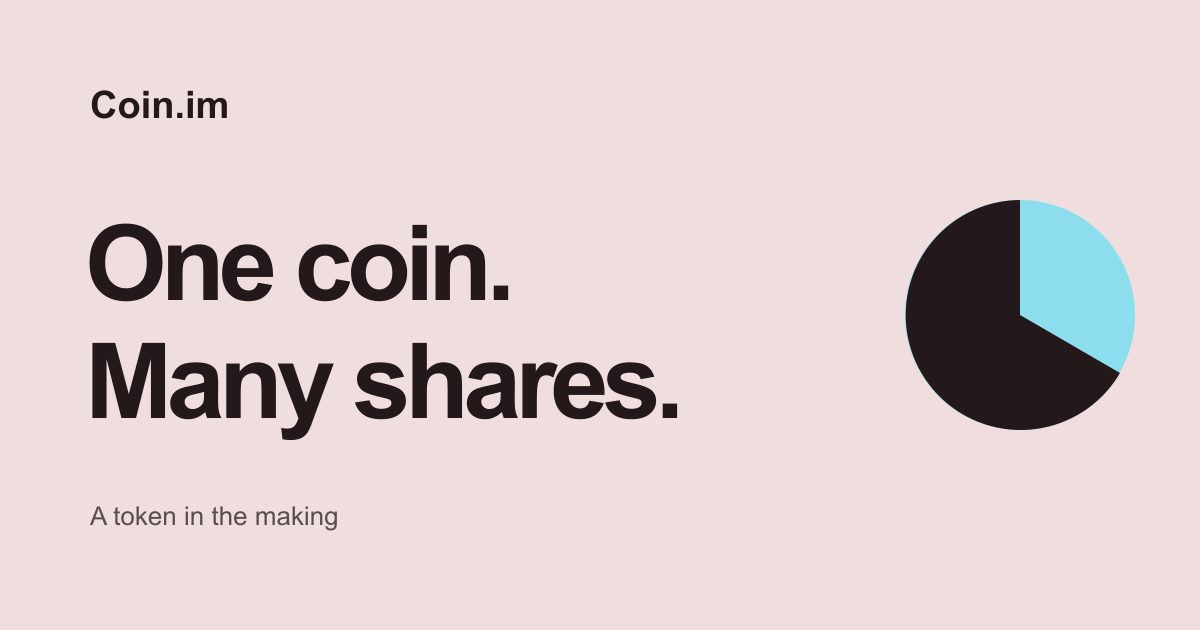
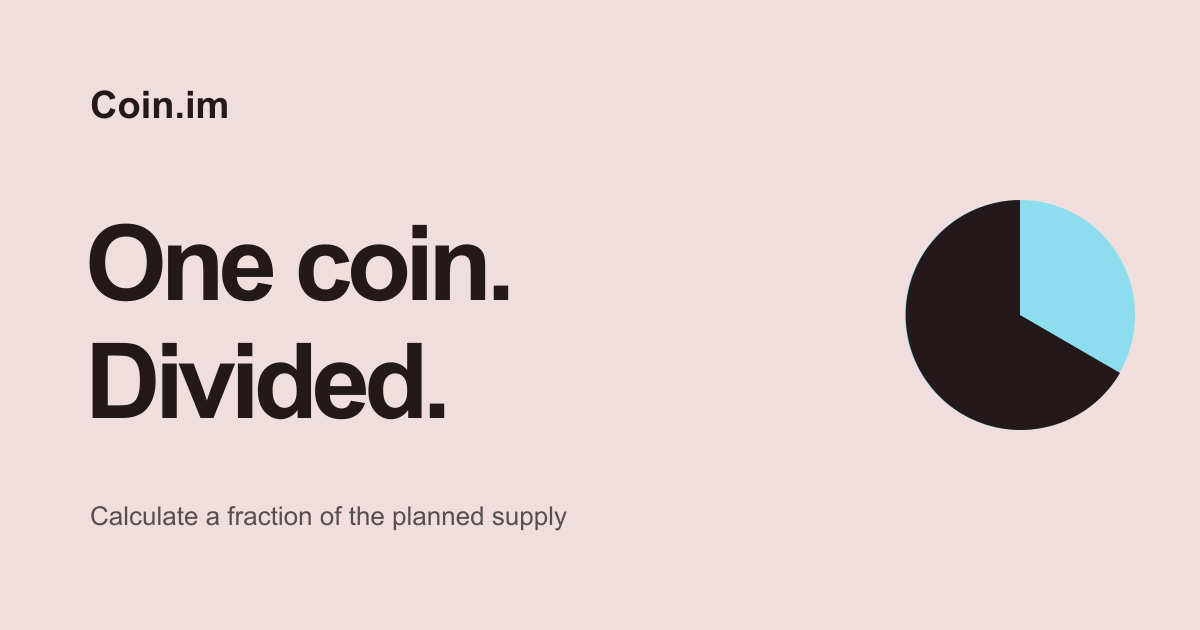
Tighten Coin.im copy and opening screen

Changed region(s): [[0.0617, 0.5429, 0.5858, 0.6937], [0.0617, 0.7841, 0.4933, 0.8444]]

diff --git a/app/coin-home.css b/app/coin-home.css
@@ -1,1 +1,1 @@
-.coin-page{--ink:#23191a;--pink:#f0dede;--blue:#8cdded;--line:#dcd6d1;background:var(--pink);color:var(--ink);font-family:Arial,sans-serif;font-size:18px;line-height:1.5}.coin-page *{box-sizing:border-box}.coin-page a{color:inherit;text-decoration:none}.coin-page button,.coin-page input{font:inherit}.coin-page button{cursor:pointer}.coin-page :focus-visible{outline:3px solid #185aa7;outline-offset:4px}.coin-header{position:relative;z-index:2}.coin-header-inner{max-width:1320px;margin:auto;min-height:86px;padding:15px 32px;display:flex;align-items:center;gap:52px}.coin-brand{display:inline-flex;align-items:center;gap:9px;font-size:26px;font-weight:700;letter-spacing:-.055em;white-space:nowrap}.brand-mark{width:38px;height:38px;flex:none}.coin-header nav{display:flex;gap:32px;align-items:center;font-size:16px;font-weight:600}.header-cta,.hero-cta{display:inline-flex;align-items:center;justify-content:center;gap:32px;background:var(--blue);border-radius:999px;padding:13px 23px;font-size:16px;font-weight:700;min-height:50px}.header-cta{margin-left:auto}.hero{min-height:690px;position:relative;overflow:hidden;display:flex;align-items:center;justify-content:center;text-align:center;padding:50px 24px 125px}.hero-content{position:relative;z-index:1;max-width:1120px}.hero-kicker,.eyebrow{font-size:12px;font-weight:700;letter-spacing:.12em;text-transform:uppercase}.hero-kicker span{display:inline-block;width:8px;height:8px;background:#326d50;border-radius:50%;margin-right:6px}.hero h1{font-size:clamp(72px,10.3vw,148px);line-height:.97;letter-spacing:-.065em;margin:20px 0 24px}.hero-copy{max-width:560px;font-size:20px;line-height:1.45;margin:0 auto 27px}.hero-status{font-size:14px;margin:15px 0 0;color:#645457}.hero-symbol{position:absolute;border-radius:50%;width:180px;height:180px;border:28px solid #dfaa63;transform:rotate(-20deg)}.symbol-left{left:5%;top:31%}.symbol-left span{position:absolute;width:28px;height:110px;background:#dfaa63;left:48px;top:8px;transform:rotate(45deg)}.symbol-right{right:5%;bottom:20%;border-color:#8cdded;width:150px;height:150px}.symbol-right span{position:absolute;background:var(--pink);width:90px;height:90px;top:-29px;right:-29px}.main-sheet{position:relative;background:#fffaf7;border-radius:80px 80px 0 0;margin-top:-62px;padding:105px 32px 0}.sheet-inner{max-width:1220px;margin:auto}.section-heading{display:grid;grid-template-columns:1fr 1fr;column-gap:60px;align-items:end;margin-bottom:44px}.section-heading .eyebrow{grid-column:1/-1}.section-heading h2,.details-section h2{font-size:clamp(48px,5vw,72px);line-height:1.04;letter-spacing:-.055em;margin:5px 0 0}.section-heading>p:last-child,.details-section>div>p:last-child{max-width:410px;margin:0 0 7px;line-height:1.5;color:#594e4e}.feature-grid{display:grid;grid-template-columns:1fr 1fr;gap:28px;align-items:stretch}.fraction-illustration{background:#f0dede;border-radius:32px;min-height:560px;display:flex;align-items:center;justify-content:center;position:relative;overflow:hidden}.disc{width:min(64%,330px);aspect-ratio:1;border-radius:50%;background:conic-gradient(#8cdded 0 45deg,#23191a 45deg 46deg,#e4ae64 46deg 135deg,#23191a 135deg 136deg,#f8f1df 136deg 269deg,#23191a 269deg 270deg,#d68f8c 270deg 359deg,#23191a 359deg);border:3px solid #23191a;display:grid;place-items:center;transform:rotate(-15deg)}.disc-center{border-radius:50%;background:#fffaf7;border:3px solid #23191a;width:80px;height:80px;display:grid;place-items:center;font-size:40px;font-weight:700}.fraction-caption{position:absolute;left:30px;right:30px;bottom:25px;display:flex;justify-content:space-between;font-size:12px;font-weight:700;letter-spacing:.1em}.explorer{background:#f6f1e8;border-radius:32px;padding:42px;scroll-margin-top:20px}.explorer h2{font-size:36px;line-height:1.1;letter-spacing:-.04em;margin:8px 0}.explorer-desc{color:#655b59;margin:0 0 26px;font-size:16px}.explorer label{display:block;font-weight:700;font-size:15px;margin-bottom:8px}.amount-box{display:flex;align-items:center;border:2px solid var(--ink);border-radius:15px;background:#fffaf7;padding:0 16px;min-height:65px}.amount-box input{width:100%;min-width:0;border:0;outline:0;background:transparent;font-size:26px;font-weight:700}.amount-box span{font-size:14px;font-weight:700}.input-help{min-height:21px;margin:5px 0 10px;color:#655b59;font-size:13px}.input-help[role=alert]{color:#a02231}.presets{display:flex;gap:8px;flex-wrap:wrap}.presets button{min-height:44px;flex:1;border:1px solid #b9b0a9;border-radius:999px;background:transparent;padding:0 11px;font-size:14px}.presets button[aria-pressed=true]{background:var(--ink);color:white;border-color:var(--ink)}.result{border-top:1px solid #d0c7be;margin-top:25px;padding:22px 0 15px;display:flex;flex-direction:column}.result span,.result small{font-size:14px;color:#655b59}.result strong{font-size:clamp(25px,2.5vw,36px);letter-spacing:-.04em;overflow-wrap:anywhere}.sale-availability,.live-checkout{font-size:14px;line-height:1.5;color:#594e4e}.copy-button{width:100%;min-height:52px;border:0;border-radius:999px;background:var(--ink);color:white;text-align:left;padding:12px 20px;font-weight:700;font-size:15px}.copy-button span{float:right}.copy-button:disabled{opacity:.45;cursor:not-allowed}.copy-feedback{min-height:18px;font-size:13px;margin:8px 0 0}.details-section{display:grid;grid-template-columns:1fr 1fr;gap:60px;padding:115px 0}.details-section>div>p:last-child{margin-top:24px}.launch dl{margin:0}.launch dl>div{display:flex;justify-content:space-between;gap:20px;border-bottom:1px solid var(--line);padding:13px 0;font-size:15px}.launch dt{color:#655b59}.launch dd{margin:0;text-align:right;font-weight:700}.launch-note,.launch details p{font-size:14px;color:#655b59;line-height:1.5}.launch details{border-top:1px solid var(--line)}.launch summary{list-style:none;cursor:pointer;font-weight:700;font-size:16px;padding:16px 0}.launch summary::-webkit-details-marker{display:none}.launch summary:after{content:'+';float:right;font-size:24px;line-height:1}.launch details[open] summary:after{content:'−'}.coin-footer{display:flex;align-items:center;gap:26px;border-top:1px solid var(--line);padding:28px 0 35px;font-size:14px}.coin-footer .coin-brand{margin-right:auto}.coin-page a:hover{text-decoration:underline}.coin-page button:hover{filter:brightness(.93)}@media(max-width:850px){.coin-header-inner{gap:20px}.coin-header nav{display:none}.hero-symbol{opacity:.55;transform:scale(.65)}.symbol-left{left:-55px}.symbol-right{right:-45px}.section-heading,.feature-grid,.details-section{grid-template-columns:1fr}.section-heading>p:last-child{margin-top:22px}.fraction-illustration{min-height:420px}.details-section{gap:36px}.coin-footer{flex-wrap:wrap}.coin-footer .coin-brand{width:100%}}@media(max-width:520px){.coin-header-inner{padding:14px 18px}.coin-brand{font-size:23px}.brand-mark{width:34px;height:34px}.header-cta{font-size:13px;padding:10px 15px;gap:10px;min-height:44px}.hero{min-height:600px;padding:45px 20px 115px}.hero h1{font-size:clamp(60px,14vw,76px)}.hero-copy{font-size:18px}.hero-symbol{opacity:.3}.main-sheet{padding:70px 18px 0;border-radius:48px 48px 0 0}.section-heading h2,.details-section h2{font-size:48px}.fraction-illustration{min-height:340px}.explorer{padding:26px}.explorer h2{font-size:30px}.details-section{padding:80px 0}.coin-footer{gap:18px}.launch dl>div{font-size:14px}}
+.coin-page{--ink:#23191a;--pink:#f0dede;--blue:#8cdded;--line:#dcd6d1;background:var(--pink);color:var(--ink);font-family:Arial,sans-serif;font-size:18px;line-height:1.5}.coin-page *{box-sizing:border-box}.coin-page a{color:inherit;text-decoration:none}.coin-page button,.coin-page input{font:inherit}.coin-page button{cursor:pointer}.coin-page :focus-visible{outline:3px solid #185aa7;outline-offset:4px}.coin-header{position:relative;z-index:2}.coin-header-inner{max-width:1320px;margin:auto;min-height:86px;padding:15px 32px;display:flex;align-items:center;gap:52px}.coin-brand{display:inline-flex;align-items:center;gap:9px;font-size:26px;font-weight:700;letter-spacing:-.055em;white-space:nowrap}.brand-mark{width:38px;height:38px;flex:none}.coin-header nav{display:flex;gap:32px;align-items:center;font-size:16px;font-weight:600}.header-cta,.hero-cta{display:inline-flex;align-items:center;justify-content:center;gap:32px;background:var(--blue);border-radius:999px;padding:13px 23px;font-size:16px;font-weight:700;min-height:50px}.header-cta{margin-left:auto}.hero{min-height:510px;position:relative;overflow:hidden;display:flex;align-items:center;justify-content:center;text-align:center;padding:28px 24px 92px}.hero-content{position:relative;z-index:1;max-width:1120px}.hero-kicker,.eyebrow{font-size:12px;font-weight:700;letter-spacing:.12em;text-transform:uppercase}.hero-kicker span{display:inline-block;width:8px;height:8px;background:#326d50;border-radius:50%;margin-right:6px}.hero h1{font-size:clamp(72px,10.3vw,148px);line-height:.97;letter-spacing:-.065em;margin:0 0 20px}.hero-copy{max-width:560px;font-size:20px;line-height:1.45;margin:0 auto 20px}.hero-status{font-size:14px;margin:15px 0 0;color:#645457}.hero-symbol{position:absolute;border-radius:50%;width:180px;height:180px;border:28px solid #dfaa63;transform:rotate(-20deg)}.symbol-left{left:5%;top:31%}.symbol-left span{position:absolute;width:28px;height:110px;background:#dfaa63;left:48px;top:8px;transform:rotate(45deg)}.symbol-right{right:5%;bottom:20%;border-color:#8cdded;width:150px;height:150px}.symbol-right span{position:absolute;background:var(--pink);width:90px;height:90px;top:-29px;right:-29px}.main-sheet{position:relative;background:#fffaf7;border-radius:80px 80px 0 0;margin-top:-62px;padding:70px 32px 0}.sheet-inner{max-width:1220px;margin:auto}.section-heading{display:grid;grid-template-columns:1fr 1fr;column-gap:60px;align-items:end;margin-bottom:44px}.section-heading .eyebrow{grid-column:1/-1}.section-heading h2,.details-section h2{font-size:clamp(48px,5vw,72px);line-height:1.04;letter-spacing:-.055em;margin:5px 0 0}.section-heading>p:last-child,.details-section>div>p:last-child{max-width:410px;margin:0 0 7px;line-height:1.5;color:#594e4e}.feature-grid{display:grid;grid-template-columns:1fr 1fr;gap:28px;align-items:stretch}.fraction-illustration{background:#f0dede;border-radius:32px;min-height:560px;display:flex;align-items:center;justify-content:center;position:relative;overflow:hidden}.disc{width:min(64%,330px);aspect-ratio:1;border-radius:50%;background:conic-gradient(#8cdded 0 45deg,#23191a 45deg 46deg,#e4ae64 46deg 135deg,#23191a 135deg 136deg,#f8f1df 136deg 269deg,#23191a 269deg 270deg,#d68f8c 270deg 359deg,#23191a 359deg);border:3px solid #23191a;display:grid;place-items:center;transform:rotate(-15deg)}.disc-center{border-radius:50%;background:#fffaf7;border:3px solid #23191a;width:80px;height:80px;display:grid;place-items:center;font-size:40px;font-weight:700}.fraction-caption{position:absolute;left:30px;right:30px;bottom:25px;display:flex;justify-content:space-between;font-size:12px;font-weight:700;letter-spacing:.1em}.explorer{background:#f6f1e8;border-radius:32px;padding:42px;scroll-margin-top:20px}.explorer h2{font-size:36px;line-height:1.1;letter-spacing:-.04em;margin:8px 0}.explorer-desc{color:#655b59;margin:0 0 26px;font-size:16px}.explorer label{display:block;font-weight:700;font-size:15px;margin-bottom:8px}.amount-box{display:flex;align-items:center;border:2px solid var(--ink);border-radius:15px;background:#fffaf7;padding:0 16px;min-height:65px}.amount-box input{width:100%;min-width:0;border:0;outline:0;background:transparent;font-size:26px;font-weight:700}.amount-box span{font-size:14px;font-weight:700}.input-help{min-height:21px;margin:5px 0 10px;color:#655b59;font-size:13px}.input-help[role=alert]{color:#a02231}.presets{display:flex;gap:8px;flex-wrap:wrap}.presets button{min-height:44px;flex:1;border:1px solid #b9b0a9;border-radius:999px;background:transparent;padding:0 11px;font-size:14px}.presets button[aria-pressed=true]{background:var(--ink);color:white;border-color:var(--ink)}.result{border-top:1px solid #d0c7be;margin-top:25px;padding:22px 0 15px;display:flex;flex-direction:column}.result span,.result small{font-size:14px;color:#655b59}.result strong{font-size:clamp(25px,2.5vw,36px);letter-spacing:-.04em;overflow-wrap:anywhere}.sale-availability,.live-checkout{font-size:14px;line-height:1.5;color:#594e4e}.copy-button{width:100%;min-height:52px;border:0;border-radius:999px;background:var(--ink);color:white;text-align:left;padding:12px 20px;font-weight:700;font-size:15px}.copy-button span{float:right}.copy-button:disabled{opacity:.45;cursor:not-allowed}.copy-feedback{min-height:18px;font-size:13px;margin:8px 0 0}.details-section{display:grid;grid-template-columns:1fr 1fr;gap:60px;padding:115px 0}.details-section>div>p:last-child{margin-top:24px}.launch dl{margin:0}.launch dl>div{display:flex;justify-content:space-between;gap:20px;border-bottom:1px solid var(--line);padding:13px 0;font-size:15px}.launch dt{color:#655b59}.launch dd{margin:0;text-align:right;font-weight:700}.launch-note,.launch details p{font-size:14px;color:#655b59;line-height:1.5}.launch details{border-top:1px solid var(--line)}.launch summary{list-style:none;cursor:pointer;font-weight:700;font-size:16px;padding:16px 0}.launch summary::-webkit-details-marker{display:none}.launch summary:after{content:'+';float:right;font-size:24px;line-height:1}.launch details[open] summary:after{content:'−'}.coin-footer{display:flex;align-items:center;gap:26px;border-top:1px solid var(--line);padding:28px 0 35px;font-size:14px}.coin-footer .coin-brand{margin-right:auto}.coin-page a:hover{text-decoration:underline}.coin-page button:hover{filter:brightness(.93)}@media(max-width:850px){.coin-header-inner{gap:20px}.coin-header nav{display:none}.hero-symbol{opacity:.55;transform:scale(.65)}.symbol-left{left:-55px}.symbol-right{right:-45px}.section-heading,.feature-grid,.details-section{grid-template-columns:1fr}.section-heading>p:last-child{margin-top:22px}.fraction-illustration{min-height:420px}.details-section{gap:36px}.coin-footer{flex-wrap:wrap}.coin-footer .coin-brand{width:100%}}@media(max-width:520px){.coin-header-inner{padding:14px 18px}.coin-brand{font-size:23px}.brand-mark{width:34px;height:34px}.header-cta{font-size:13px;padding:10px 15px;gap:10px;min-height:44px}.hero{min-height:480px;padding:32px 20px 90px}.hero h1{font-size:clamp(60px,14vw,76px)}.hero-copy{font-size:18px}.hero-symbol{opacity:.3}.main-sheet{padding:70px 18px 0;border-radius:48px 48px 0 0}.section-heading h2,.details-section h2{font-size:48px}.fraction-illustration{min-height:340px}.explorer{padding:26px}.explorer h2{font-size:30px}.details-section{padding:80px 0}.coin-footer{gap:18px}.launch dl>div{font-size:14px}}

diff --git a/app/coin-home.tsx b/app/coin-home.tsx
@@ -38,15 +38,15 @@ export default function CoinHome({ saleConfig }: { saleConfig: SaleRuntime | nul
     <main>
       <section className="hero" aria-labelledby="hero-title">
         <div className="hero-symbol symbol-left" aria-hidden="true"><span/></div><div className="hero-symbol symbol-right" aria-hidden="true"><span/></div>
-        <div className="hero-content"><p className="hero-kicker"><span/> A token in the making</p><h1 id="hero-title">One coin.<br/>Many shares.</h1>
-          <p className="hero-copy">The plan: create one COIN and divide it into fractions. At the proposed price, 100 USDT would buy 0.01% of the whole.</p>
+        <div className="hero-content"><h1 id="hero-title">One coin.<br/>Divided.</h1>
+          <p className="hero-copy">Coin.im plans to issue one COIN. At the proposed price, 100 USDT would buy 0.0001 COIN — 0.01% of the total supply.</p>
           <a className="hero-cta" href="#explorer">Calculate your share <span>↗</span></a><p className="hero-status">{saleConfig ? "Sale available · Avalanche C-Chain" : "Pre-launch · Purchases are not available yet"}</p>
         </div>
       </section>
       <section className="main-sheet" id="how"><div className="sheet-inner">
-        <div className="section-heading"><p className="eyebrow">THE IDEA</p><h2>One is enough<br/>to go around.</h2><p>There will be one COIN in total. You won’t need to buy all of it: the coin can be divided into smaller fractions.</p></div>
+        <div className="section-heading"><p className="eyebrow">THE SUPPLY</p><h2>One COIN.<br/>Smaller fractions.</h2><p>The planned supply is one COIN. You can calculate a fraction without buying the whole coin.</p></div>
         <div className="feature-grid"><div className="fraction-illustration" aria-label="A circle divided into fractions"><div className="disc"><span className="disc-center">1</span></div><div className="fraction-caption"><span>ONE WHOLE</span><span>100% ↗</span></div></div>
-          <div className="explorer" id="explorer"><p className="eyebrow">THE MATH</p><h2>What would you get?</h2><p className="explorer-desc">At the proposed fixed price, 1 COIN costs 1,000,000 USDT.</p>
+          <div className="explorer" id="explorer"><p className="eyebrow">CALCULATOR</p><h2>Calculate a fraction</h2><p className="explorer-desc">Proposed price: 1 COIN = 1,000,000 USDT.</p>
             <label htmlFor="coin-amount">Amount in USDT</label><div className="amount-box"><input ref={input} id="coin-amount" value={value} onChange={e => choose(e.target.value)} inputMode="decimal" autoComplete="off" aria-invalid={"error" in result} aria-describedby="amount-help"/><span>USDT</span></div>
             <p className="input-help" id="amount-help" role={"error" in result ? "alert" : undefined}>{"error" in result ? result.error : "Up to 6 decimal places"}</p>
             <div className="presets" aria-label="Example amounts">{[["10","10"],["50","50"],["100","100"],["500","500"],["1,000","1000"]].map(([label, amount]) => <button key={label} onClick={() => choose(amount)} aria-pressed={value === amount}>{label}</button>)}</div>
@@ -54,8 +54,8 @@ export default function CoinHome({ saleConfig }: { saleConfig: SaleRuntime | nul
             {saleConfig ? <CoinCheckout config={saleConfig} value={value} /> : <p className="sale-availability">The sale contract and inventory have not been published. This is a calculation, not a purchase.</p>}
             <button className="copy-button" onClick={copy} disabled={"error" in result}>Copy calculation <span>↗</span></button><p className="copy-feedback" aria-live="polite">{copied}</p>
           </div></div>
-        <div className="details-section" id="details"><div><p className="eyebrow">BEFORE LAUNCH</p><h2>Before you<br/>take a share.</h2><p>The price is a proposal for the initial sale. It does not tell you what someone might pay for COIN later.</p></div>
-          <div className="launch"><dl>{[["Planned supply","1 COIN"],["Proposed sale price","1 COIN = 1,000,000 USDT"],["Full supply at that price","1,000,000 USDT"],["COIN contract","To be published"],["Sale contract","To be published"],["Sale inventory","Not funded"],["Trading","Not live"]].map(([key,val]) => <div key={key}><dt>{key}</dt><dd>{val}</dd></div>)}</dl><p className="launch-note">Contract addresses, allocation, team shares and liquidity terms are to be published before trading.</p><details><summary>What would I own?</summary><p>A fraction of the COIN token. It would not give you rights to the company, its revenue or the domain.</p></details><details><summary>Is 1,000,000 USDT a market value?</summary><p>No. It is the proposed price of the whole supply, not a market capitalization or a resale quote.</p></details><details><summary>Will I be able to sell?</summary><p>A primary sale would not create a secondary market or a buyback obligation.</p></details></div>
+        <div className="details-section" id="details"><div><p className="eyebrow">SALE TERMS</p><h2>What is known<br/>so far.</h2><p>The proposed sale price is fixed. A future resale price is unknown.</p></div>
+          <div className="launch"><dl>{[["Planned supply","1 COIN"],["Proposed sale price","1 COIN = 1,000,000 USDT"],["Full supply at that price","1,000,000 USDT"],["COIN contract","To be published"],["Sale contract","To be published"],["Sale inventory","Not funded"],["Trading","Not live"]].map(([key,val]) => <div key={key}><dt>{key}</dt><dd>{val}</dd></div>)}</dl><p className="launch-note">Contract addresses, token allocation, team shares and liquidity terms have not yet been published.</p><details><summary>What would I own?</summary><p>A fraction of the COIN token. It would not give you rights to the company, its revenue or the domain.</p></details><details><summary>Is 1,000,000 USDT a market value?</summary><p>No. It is the proposed price of the whole supply, not a market capitalization or a resale quote.</p></details><details><summary>Will I be able to sell?</summary><p>A primary sale would not create a secondary market or a buyback obligation.</p></details></div>
         </div>
         <footer className="coin-footer"><Link className="coin-brand" href="/"><Mark/><span>Coin.im</span></Link><span>Pre-launch</span><a href="/blog">Research ↗</a><a href="mailto:8@111.bz?subject=coin.im%20domain%20purchase%20inquiry">Domain for sale · $70,000 ↗</a><a href="mailto:8@111.bz">8@111.bz</a></footer>
       </div></section>

diff --git a/app/layout.tsx b/app/layout.tsx
@@ -25,12 +25,12 @@ export const viewport: Viewport = {
 };
 export const metadata: Metadata = {
   metadataBase: new URL("https://coin.im"),
-  title: "Coin.im — One coin. Many shares.",
-  description: "Explore COIN: a planned total supply of one coin, held in fractions. See exactly how each fraction relates to the whole.",
+  title: "Coin.im — One coin. Divided.",
+  description: "Calculate a fraction of the planned one-COIN supply at the proposed sale price. Purchases are not yet available.",
   alternates: { canonical: "/" },
   icons: { icon: "/coin-logo.svg", apple: "/coin-logo.svg" },
-  openGraph: { type: "website", url: "/", siteName: "Coin.im", title: "Coin.im — One coin. Many shares.", description: "One planned coin, held in fractions. Explore your share of the whole.", images: [{ url: "/coin-social-new.png", width: 1200, height: 630 }] },
-  twitter: { card: "summary_large_image", title: "Coin.im — One coin. Many shares.", description: "One planned coin, held in fractions.", images: ["/coin-social-new.png"] },
+  openGraph: { type: "website", url: "/", siteName: "Coin.im", title: "Coin.im — One coin. Divided.", description: "Calculate a fraction of the planned one-COIN supply at the proposed sale price.", images: [{ url: "/coin-social-new.png", width: 1200, height: 630 }] },
+  twitter: { card: "summary_large_image", title: "Coin.im — One coin. Divided.", description: "Calculate a fraction of the planned one-COIN supply.", images: ["/coin-social-new.png"] },
 };
 
 export default function Layout({ children }: { children: React.ReactNode }) {
